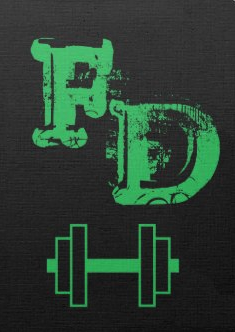
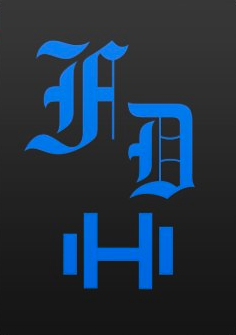
new card back

Changed region(s): [[0.0894, 0.0904, 0.9532, 0.9337]]

diff --git a/src/components/CardPage/CardPage.css b/src/components/CardPage/CardPage.css
@@ -15,7 +15,7 @@
   font-size: 1.75rem;
   font-weight: bold;
   border-radius: 30px;
-  background-color: var(--green);
+  background-color: var(--blue);
   border: none;
   color: whitesmoke;
   height: 40px;
@@ -71,7 +71,7 @@
   left: 1%;
   border-radius: 8px;
   transform: scale(0.75);
-  border: 2px solid var(--green);
+  border: 2px solid var(--blue);
   box-shadow: 10px 10px 10px 10px black;
 }
 
@@ -89,7 +89,7 @@
 
 .exercise {
   border-radius: 8px;
-  border: 2px solid var(--green);
+  border: 2px solid var(--blue);
   /* height: 50vh;
   width: 50vw; */
   width: 400px;

diff --git a/src/components/FlipCard/FlipCard.css b/src/components/FlipCard/FlipCard.css
@@ -8,7 +8,7 @@
 }
 #card__back {
   width: 400px;
-  border: 5px solid var(--green);
+  border: 5px solid var(--blue);
   height: 550px;
   border-radius: 8px;
 }
@@ -39,7 +39,7 @@
   background-color: var(--dark);
   transform: rotateY(180deg);
   border-radius: 8px;
-  border: 5px solid var(--green);
+  border: 5px solid var(--blue);
 }
 
 .deck__options {
@@ -47,7 +47,7 @@
   margin-left: 6.5rem;
   font-size: 1rem;
   border-radius: 30px;
-  background-color: var(--green);
+  background-color: var(--blue);
   border: none;
   color: whitesmoke;
   height: 50px;

diff --git a/src/components/Instructions/index.js b/src/components/Instructions/index.js
@@ -22,7 +22,7 @@ export default function Instructions({ setLevel, setIsCore }) {
           exercise. You can draw cards by clicking the deck in bottom left. Once
           you draw a card it will display a GIF of the exercise and you can get
           started! The goal is to get through all 52 cards! Take rest as needed.
-          To get start hover over the Fitness Deck to the right and select a
+          To get started hover over the Fitness Deck to the right and select a
           deck. Good luck and have a great workout!
         </div>
         <a

diff --git a/src/index.css b/src/index.css
@@ -1,13 +1,13 @@
 body {
   margin: 0;
   background: var(--dark);
-  color: var(--green);
+  color: var(--blue);
   background: url("./fitbg.jpg") no-repeat center center fixed;
   font-family: sans-serif;
 }
 
 :root {
-  --green: #006aff;
+  --blue: #006aff;
   --dark: #363636;
 }
 

diff --git a/src/components/Splash/Splash.css b/src/components/Splash/Splash.css
@@ -62,7 +62,7 @@
   font-size: 1.75rem;
   font-weight: bold;
   border-radius: 30px;
-  background-color: var(--green);
+  background-color: var(--blue);
   color: whitesmoke;
   height: 70px;
   width: 300px;

diff --git a/src/components/Instructions/Instructions.css b/src/components/Instructions/Instructions.css
@@ -2,7 +2,7 @@
   position: absolute;
   top: 2%;
   left: 5%;
-  color: var(--green);
+  color: var(--blue);
   background: none;
   font-size: 36px;
   border: none;
